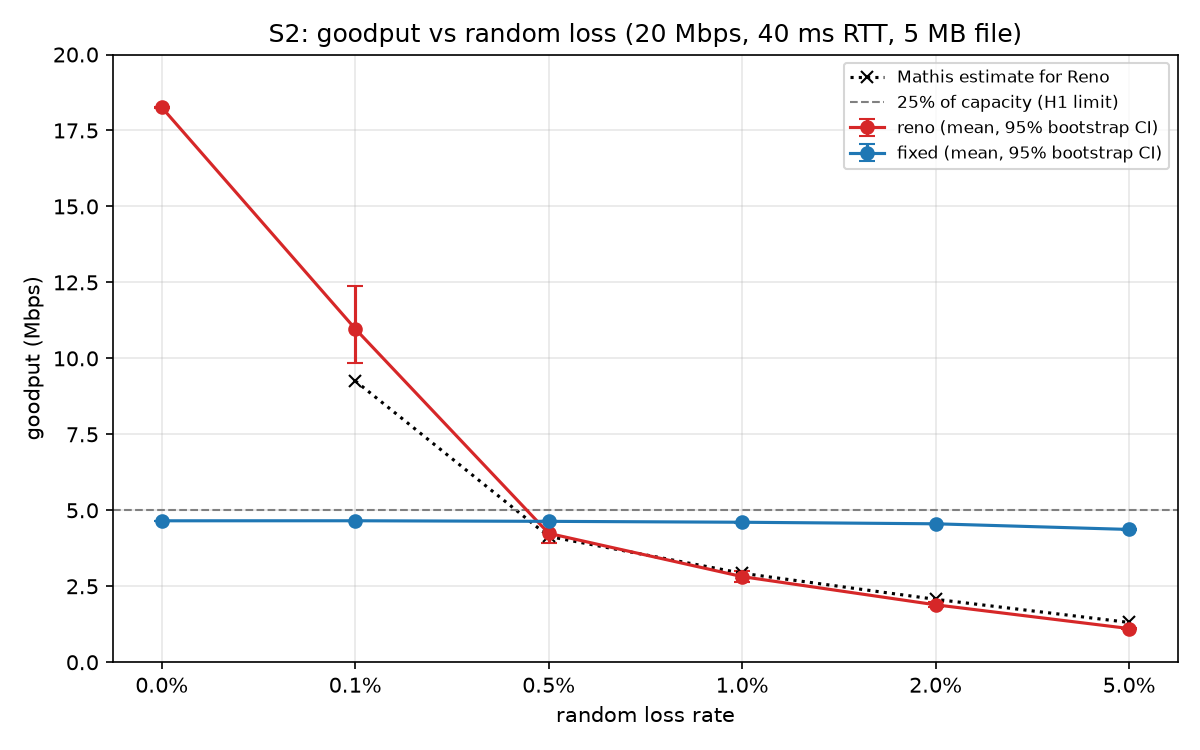
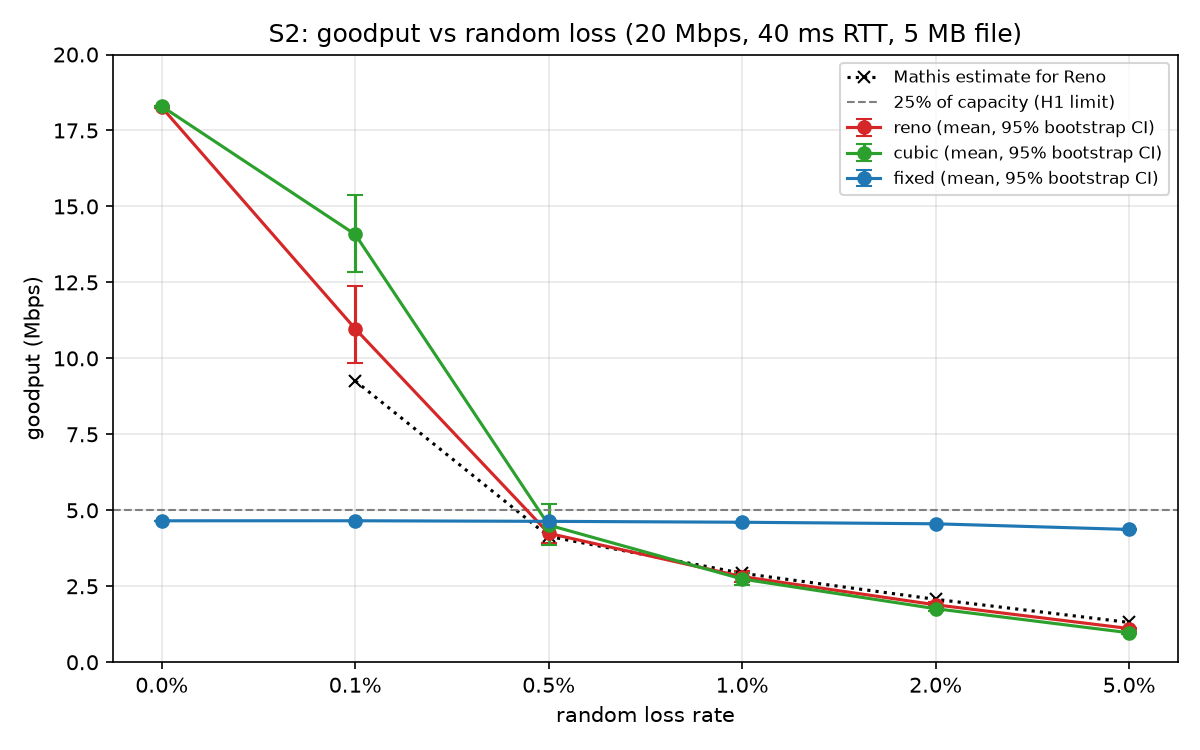
Step 23: CUBIC S2 results, outlier under investigation

diff --git a/analysis/plot_goodput.py b/analysis/plot_goodput.py
@@ -18,8 +18,11 @@ def main():
     os.makedirs("docs/figures", exist_ok=True)
 
     # Step 2: read the runs table and count problems
-    with open("results/mvp_s2_runs.csv") as f:
-        rows = list(csv.DictReader(f))
+    rows = []
+    for fn in ("results/mvp_s2_runs.csv", "results/mvp_s2_cubic.csv"):
+        if os.path.exists(fn):
+            with open(fn) as f:
+                rows += list(csv.DictReader(f))
     bad_hash = [r for r in rows if r["hash_ok"] != "True"]
     good = [r for r in rows if r["goodput_mbps"] != "" and r["emu_random"] != ""]
     print("Rows read:", len(rows), "| hash failures:", len(bad_hash), "| usable runs:", len(good))
@@ -34,7 +37,7 @@ def main():
     stats = {}
     print()
     print("ctrl   loss%   n    mean Mbps   95% CI            util%  retx%  spurious  cuts")
-    for cc in ("reno", "fixed"):
+    for cc in ("reno", "cubic", "fixed"):
         for p in losses:
             if (cc, p) not in groups:
                 continue
@@ -78,12 +81,13 @@ def main():
             r_m = stats[("reno", p)][0]
             f_m = stats[("fixed", p)][0]
             print("Winner at", p, "% loss:", "reno" if r_m > f_m else "fixed", "(reno", round(r_m, 2), "vs fixed", round(f_m, 2), ")")
+    print(*[f"CUBIC / Reno at {p}% loss: ratio {stats[('cubic', p)][0] / stats[('reno', p)][0]:.2f} ({'within 25%' if abs(stats[('cubic', p)][0] - stats[('reno', p)][0]) <= 0.25 * stats[('reno', p)][0] else 'MORE than 25% apart'})" for p in losses if ('cubic', p) in stats and ('reno', p) in stats], sep="\n")
     diffs = [int(r["declared"]) - (int(r["emu_random"]) + int(r["emu_overflow"])) for r in good]
     print("Losses declared minus emulator drops, per run: min", min(diffs), "max", max(diffs), "mean", round(sum(diffs) / len(diffs), 2))
 
     # Step 7: draw goodput against loss rate (x positions are evenly spaced, labels are the loss rates)
     fig, ax = plt.subplots(figsize=(8, 5))
-    for cc, colour in (("reno", "tab:red"), ("fixed", "tab:blue")):
+    for cc, colour in (("reno", "tab:red"), ("cubic", "tab:green"), ("fixed", "tab:blue")):
         xs, ys, below, above = [], [], [], []
         for i, p in enumerate(losses):
             if (cc, p) in stats:

diff --git a/docs/hypotheses.md b/docs/hypotheses.md
@@ -51,3 +51,11 @@ Prediction 1 partly confirmed: cwnd troughs sat at about 14.4 packets after peak
 Prediction 2 confirmed: the steady ramps are nearly straight, so the sender stayed in the TCP-friendly region. Reading the graphs, CUBIC grew at about 5.6 packets per second against about 13 for Reno (ratio about 0.43), near the 0.53 packets per RTT given by the RFC 9438 formula 3 x (1 - beta) / (1 + beta).
 Ground truth join: 35 packets dropped by the emulator, 35 declared lost by the sender, all QUEUE_OVERFLOW. Rules that fired: packets 33, time 2, no timeout.
 Observation: CUBIC needed three cuts during the start-up overshoot (about 39 to 29 to 20.5 to 14.7 packets) because keeping 70 percent after the first loss still left cwnd above the pipe plus buffer of about 19 packets.
+
+## Step 23 (CUBIC in scenario S2), written before running
+Prediction 4: Reno is AIMD with increase 1 packet per RTT and beta 0.5, giving a throughput constant sqrt(1 x 1.5 / 1) = 1.22. CUBIC in the TCP-friendly region increases 0.53 packets per RTT with beta 0.7, giving sqrt(0.529 x 1.7 / 0.6) = 1.22, the same constant. Typical windows here are under about 40 packets, too small to leave the TCP-friendly region. So CUBIC goodput should be within 25 percent of Reno at every loss rate from 0.1 to 5 percent, and well below 25 percent of capacity at 1 percent loss (this extends Prediction 3 of Step 22 to all loss rates).
+At 0 percent loss both should be near 18 Mbps, but start-up overshoot dominates, so a larger difference is possible. Retransmission rate at 0 percent loss should be similar to Reno (about 3.6 percent) or slightly higher because CUBIC keeps 70 percent after a cut.
+
+### Step 23 outcome (CUBIC in S2, 10 seeds)
+Prediction 4 partly supported: CUBIC goodput was within 25 percent of Reno at 5 of 6 loss rates (ratio 1.00, 1.06, 0.97, 0.93, 0.87 at 0, 0.5, 1, 2, 5 percent). It missed at 0.1 percent loss, where CUBIC reached about 14.1 Mbps against 10.97 for Reno (ratio 1.28) and the confidence intervals read from the graph do not overlap. Step 22 Prediction 3 held: at 1 percent loss CUBIC was 0.97 of Reno, about 2.74 Mbps.
+My stated reason, that windows stay inside the TCP-friendly region, does not explain the 0.1 percent gap: by my calculation the TCP-friendly estimate stays above the cubic curve at these window sizes. Likely cause, not yet tested: a 5 MB run sees only about 5 cuts at 0.1 percent loss, so start-up matters, and CUBIC keeps 70 percent of cwnd after the slow start overshoot against 50 percent for Reno, a head start while cwnd is far below the BDP of 83 packets. A longer file at 0.1 percent loss would test this. CUBIC was 13 percent below Reno at 5 percent loss, cause not investigated.

diff --git a/docs/lab-notebook.md b/docs/lab-notebook.md
@@ -45,3 +45,5 @@
 ## 2026-10-21: Step 22 CUBIC added to file_sender as a third controller branch (beta 0.7, C 0.4, TCP-friendly region, fast convergence, slow start unchanged). Test A run done, results to be recorded after checking against the predictions in docs/hypotheses.md.
 
 ## 2026-10-22: Step 22 CUBIC Test A (2 Mbps, buffer 10): emulator dropped 35, sender declared 35, all QUEUE_OVERFLOW (rules: 33 packets, 2 time). cwnd cycled between about 14.4 and 20.5 packets with near-straight ramps (TCP-friendly region). Figure docs/figures/testA_cubic_cwnd.png.
+
+## 2026-10-22: Step 23 CUBIC S2 runs (60 runs, seeds 1 to 10) added to the analysis. Ratios CUBIC / Reno: 1.00, 1.28, 1.06, 0.97, 0.93, 0.87 at 0, 0.1, 0.5, 1, 2, 5 percent loss. Data check: declared minus emulator drops had min 0, max 83, mean 0.48 over 180 runs, which means about 86 extra declared losses nearly all from one run. Being investigated, and the earlier claim of 0 spurious losses is on hold until the run is found.
